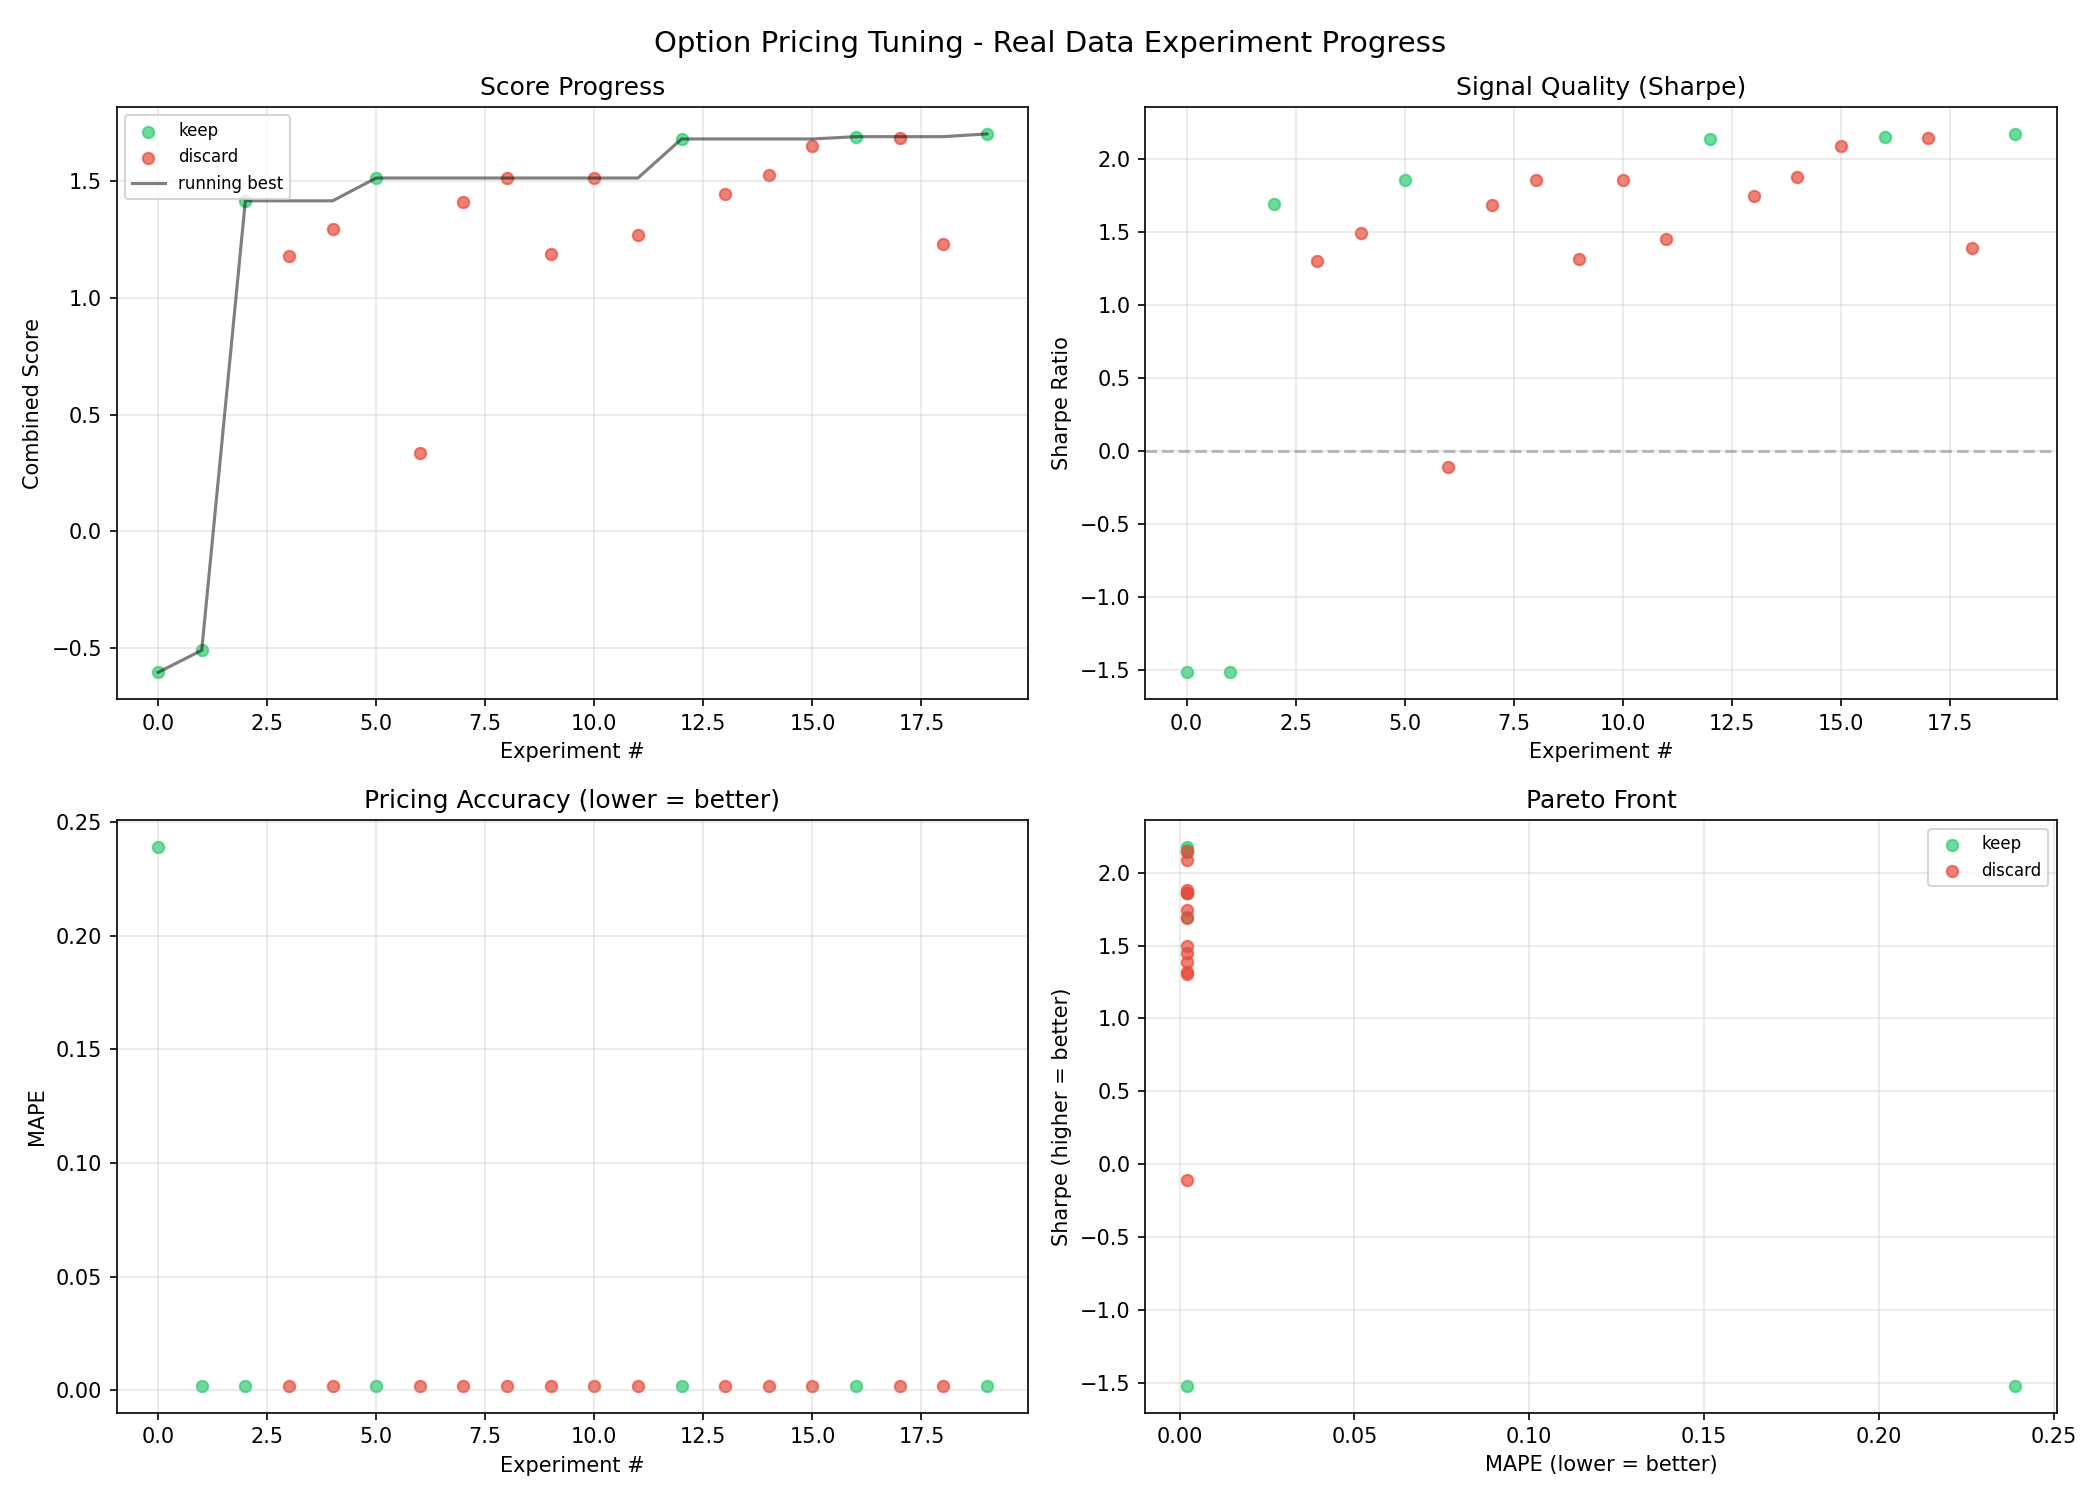
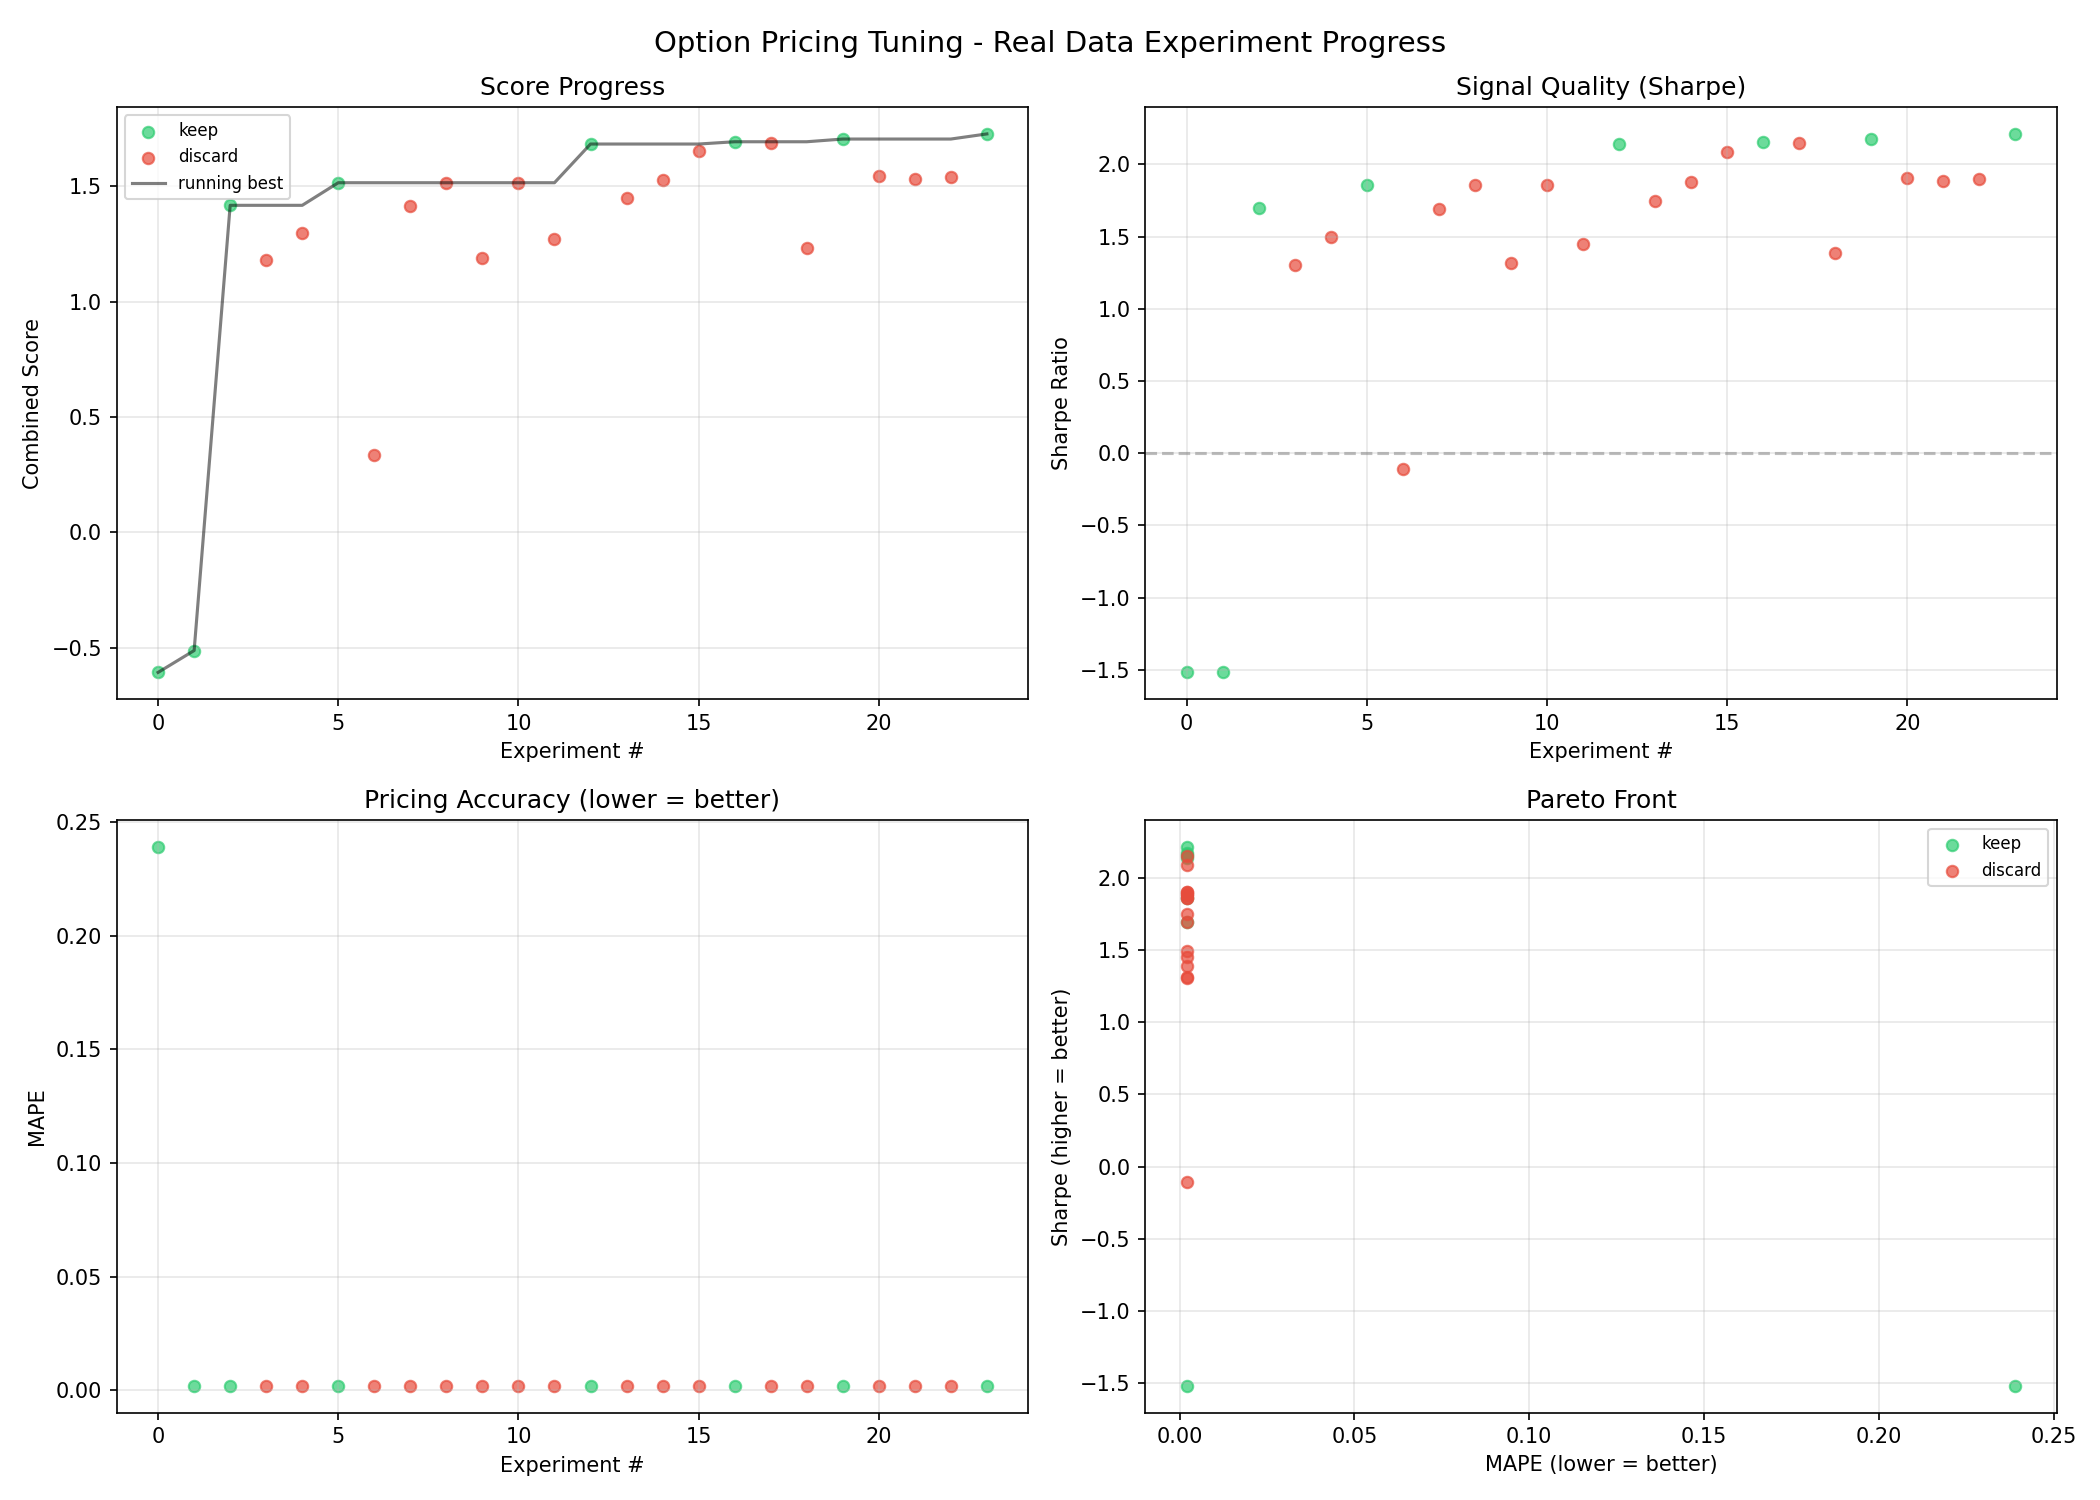
Update results after exp 23

diff --git a/README.md b/README.md
@@ -9,12 +9,12 @@ signals using **real stock market data** from Yahoo Finance.
 
 | Metric | Value |
 |---|---|
-| Combined Score | 1.7038 |
-| Sharpe Ratio | 2.1743 |
+| Combined Score | 1.7259 |
+| Sharpe Ratio | 2.2113 |
 | MAPE | 0.002026 |
-| Win Rate | 76.2% |
-| Trades | 21 |
-| Experiments | 20 (7 kept) |
+| Win Rate | 84.2% |
+| Trades | 19 |
+| Experiments | 24 (8 kept) |
 
 ## How It Works
 
